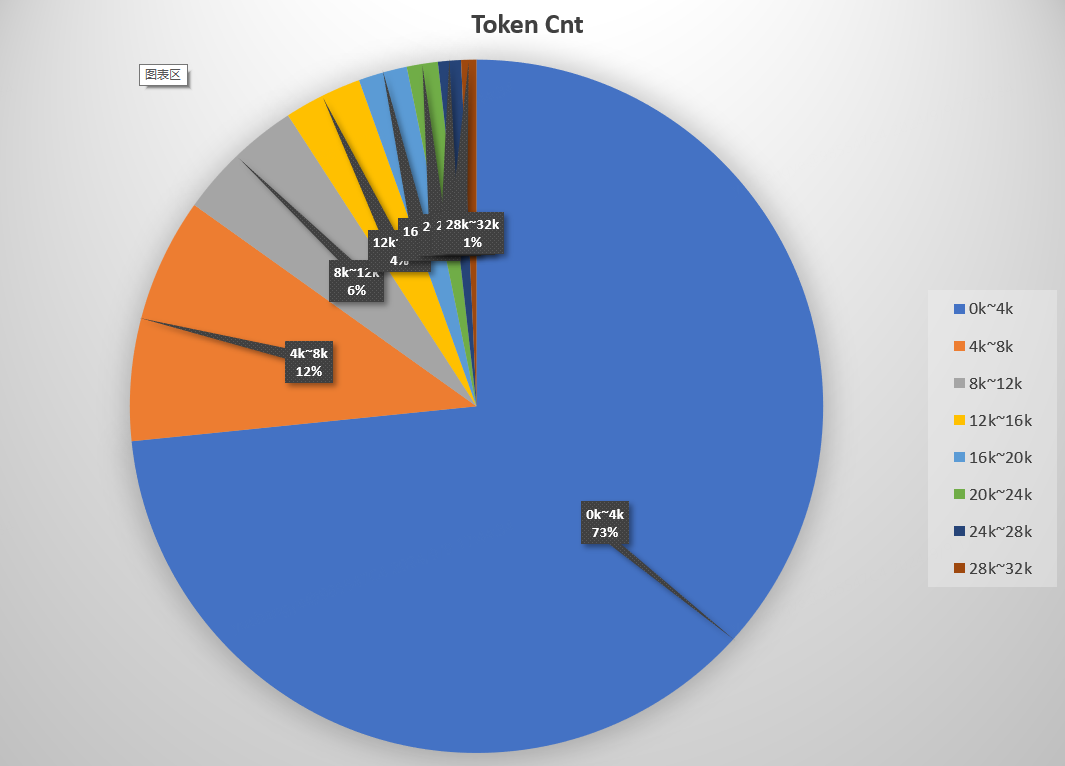
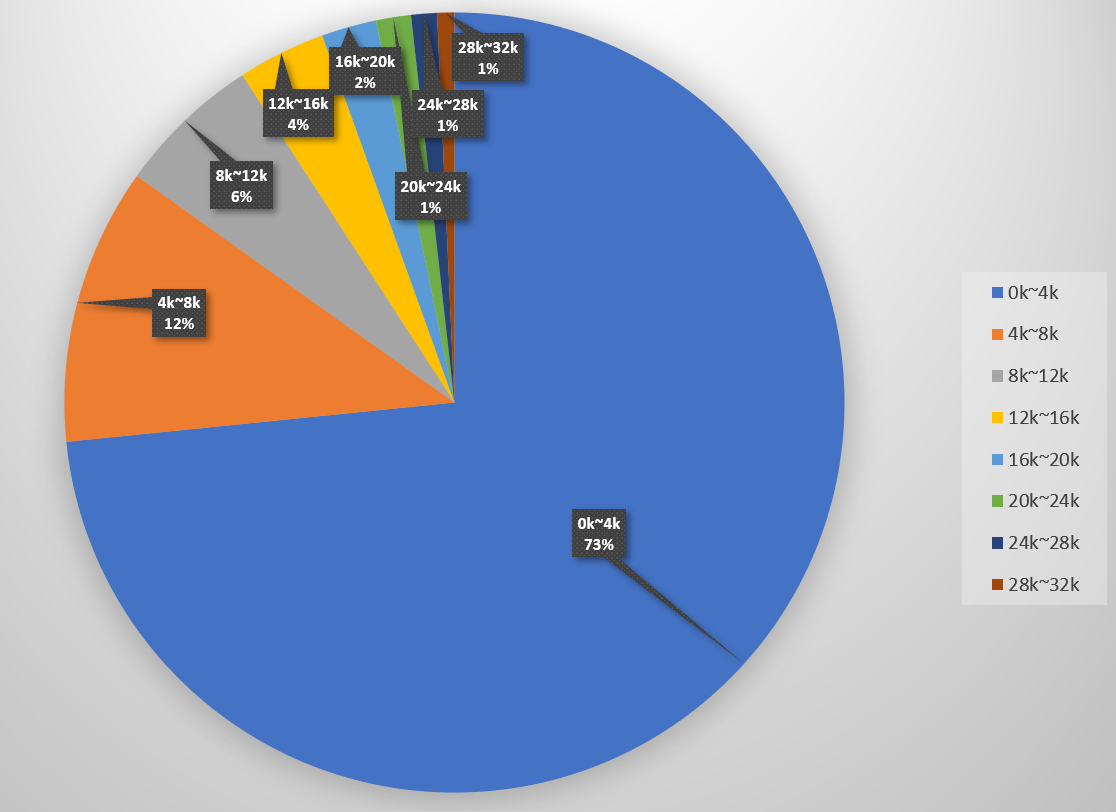
Update 长上下文技术报告.md

diff --git a/Index-1.9B-32K_Long_Context_Technical_Report.md b/Index-1.9B-32K_Long_Context_Technical_Report.md
@@ -32,7 +32,7 @@ As shown in the figure below, our 1.9B-sized model's score even surpasses that o
 # Training Process
 
 Index-1.9B-32K was further trained based on the already open-source Index-1.9B, with two additional training stages:
-1. **Long PT**: Long continue Pre-Train, continual pre-training on long data.
+1. **Long PT**: Long continue Pre-Training, continual pre-training on long data.
 2. **Long SFT**: Supervised Fine-Tuning on long-text instructions.
 
    **\*(RLHF / DPO)**: Although we have experience with alignment training like RLHF and DPO, this version has not undergone RLHF/DPO training (RLHF/DPO will be added in future versions). The primary focus of this version is to hone the model's deep-level capabilities in Long Context.
@@ -73,7 +73,7 @@ The training process of Index-1.9B-32K is shown below:
 
 
 
-## Stage 1: Continue Pre-Training (32K)
+## Stage 1: Continued Pre-Training (32K)
 
 ### Training
 
@@ -212,7 +212,7 @@ We initially believed that the model's perception of text length should graduall
 
 ## Packing VS Non-Packing
 
-We thought that the packing method might affect gradient descent, especially when mixing instructions of different lengths. However, the experimental results showed minimal differences between the two training methods (less than 1%).
+We thought that the Doc-packing method might affect gradient descent, especially when mixing instructions of different lengths. However, the experimental results showed minimal differences between the two training methods (less than 1%).
 
 ## 1‰ Long Instruction SFT
 